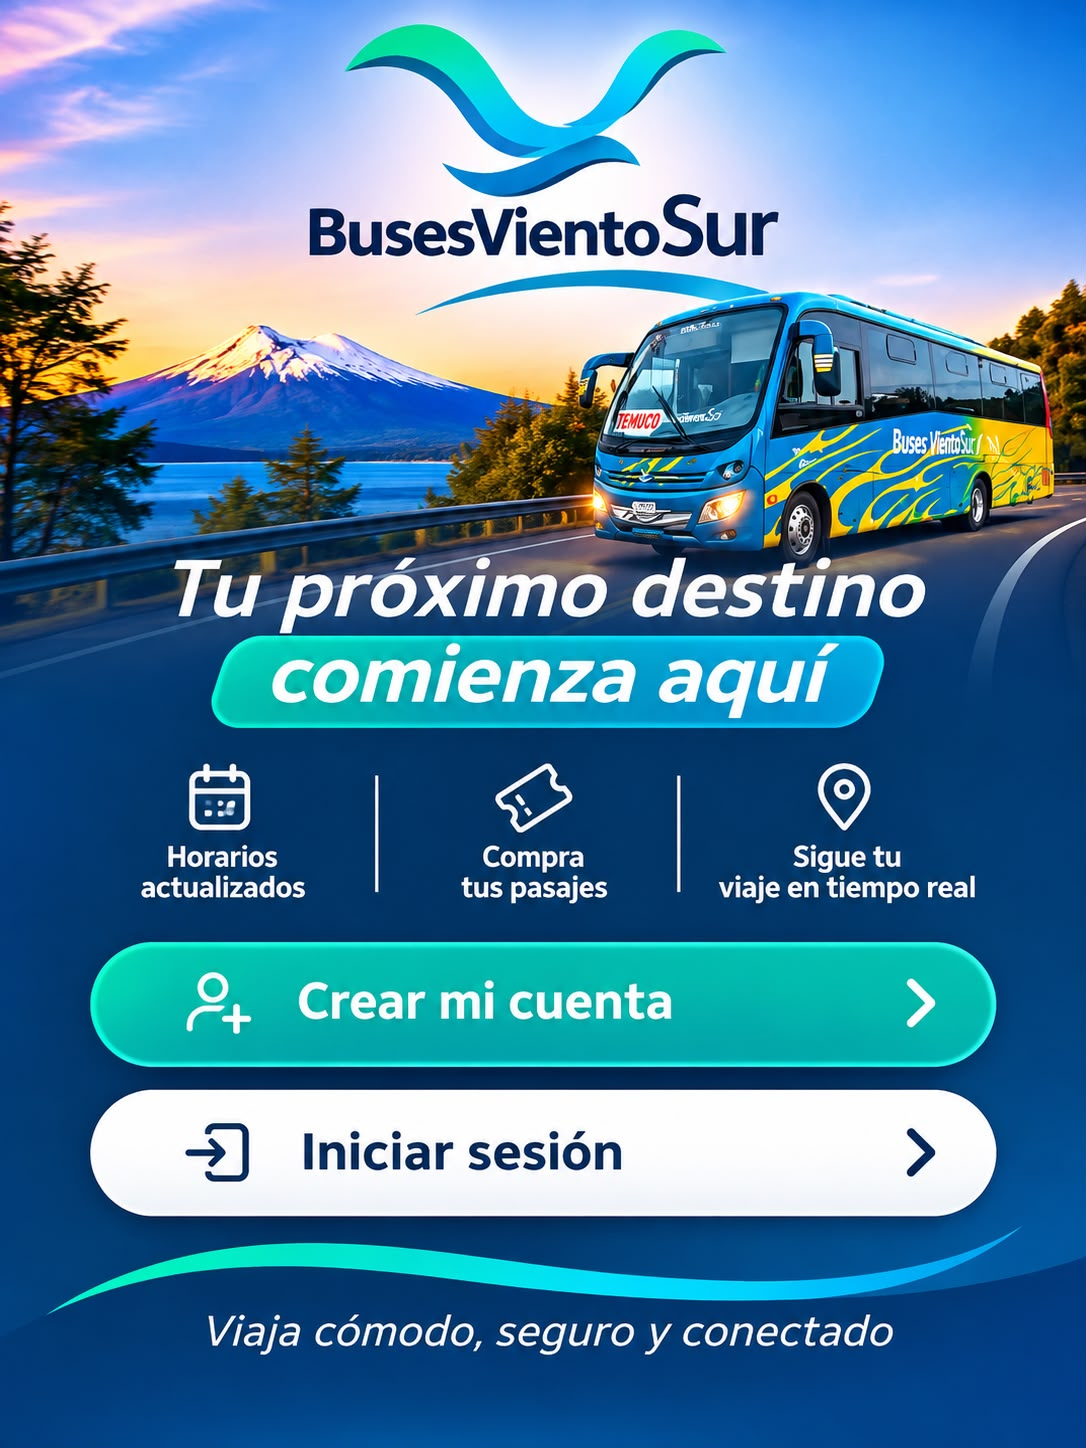
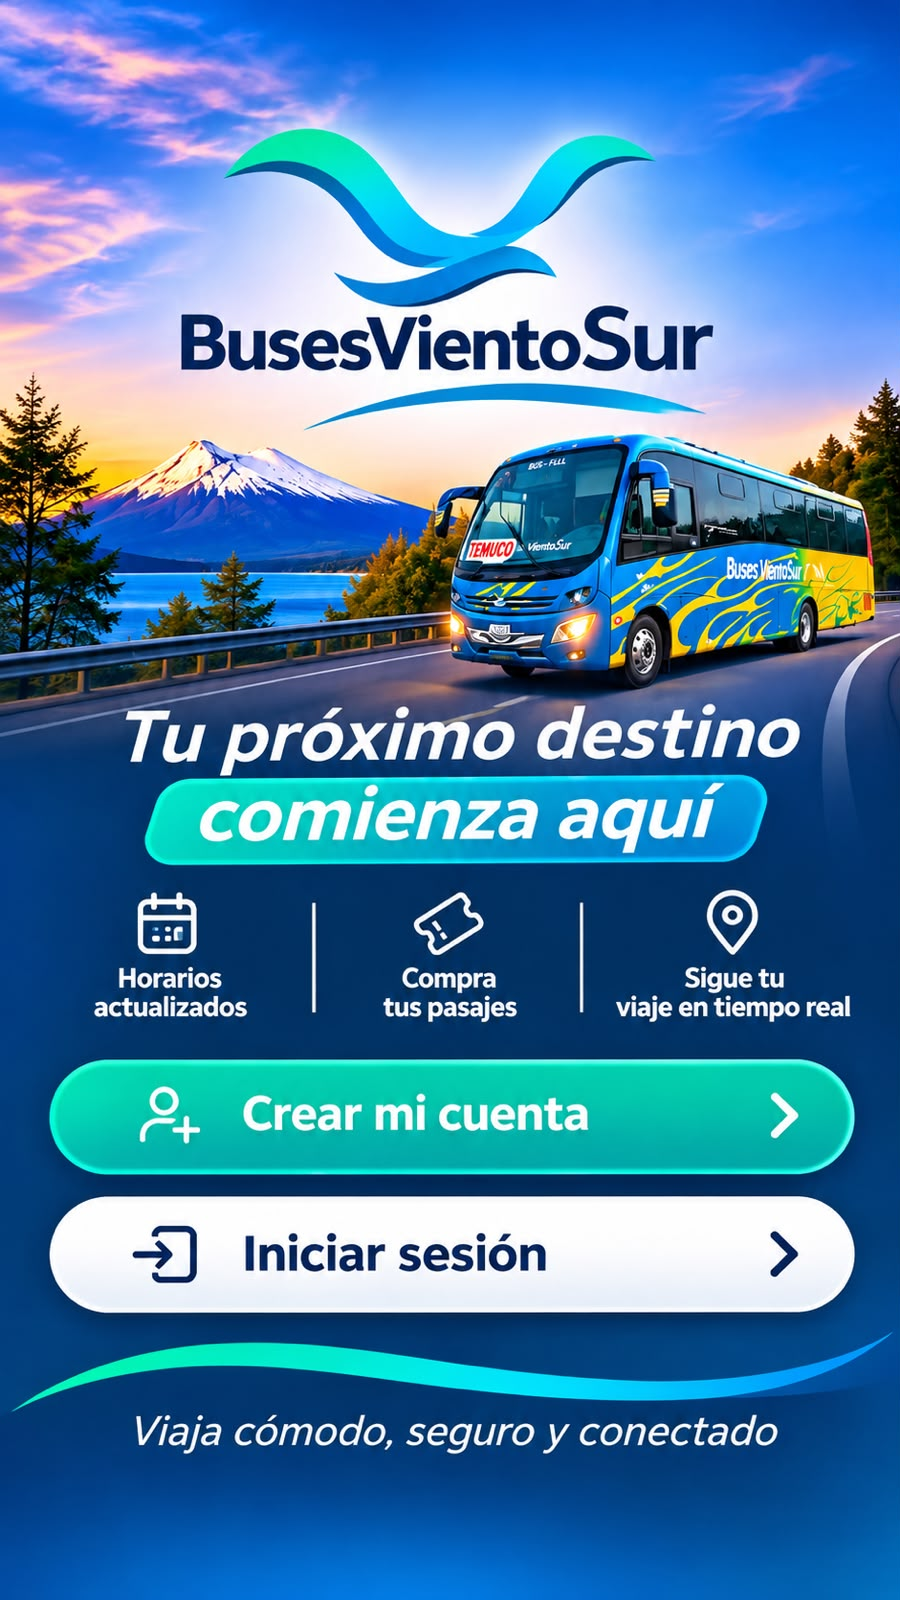
Actualizar portada VientoSur para celulares

diff --git a/public/bienvenida.html b/public/bienvenida.html
@@ -181,8 +181,8 @@ body {
       elemento.style.height = (alto * altoBoton) + "px";
     }
 
-    colocar(registro, .083, .636, .834, .088);
-    colocar(login, .083, .736, .834, .088);
+    colocar(registro, .055, .655, .89, .073);
+    colocar(login, .055, .739, .89, .073);
   }
 
   imagen.addEventListener("load", ajustar);
